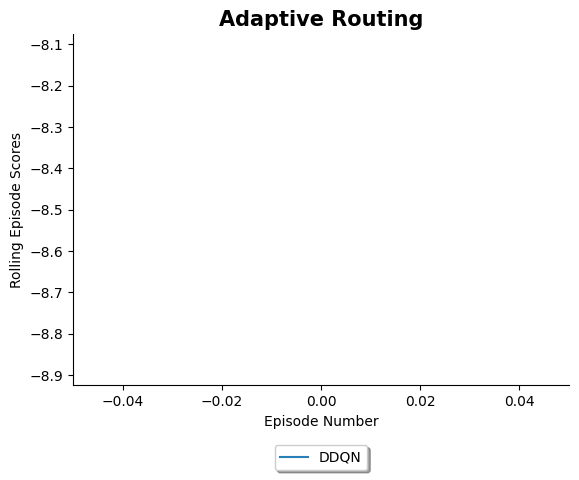
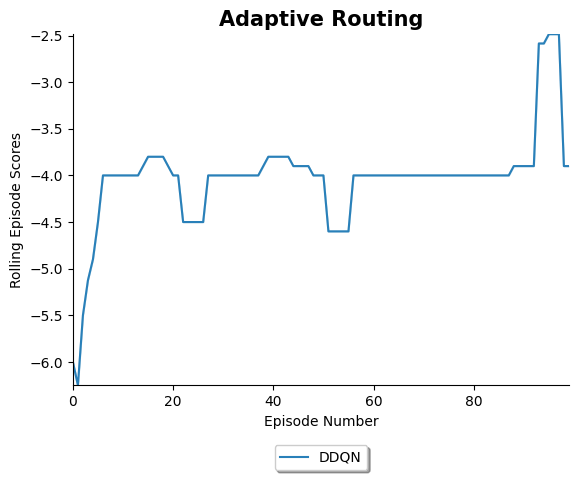
bug fix

diff --git a/environments/Adaptive_Routing_Environment.py b/environments/Adaptive_Routing_Environment.py
@@ -16,9 +16,7 @@ import torch
 import itertools
 import numpy
 import math
-# eng = cityflow.Engine("3x3/config.json", thread_num=1)
-# for i in range(1000):
-# 	eng.next_step()
+
 class Adaptive_Routing_Environment(gym.Env):
 	environment_name = "Adaptive Routing"
 
@@ -62,7 +60,6 @@ class Adaptive_Routing_Environment(gym.Env):
 		# breakpoint()
 		self.eng.set_save_replay(True)
 		self.eng.set_replay_file("replays/episode"+str(episode)+".txt")
-		self.vehicles={}
 		self.refresh()
 		self.eng.next_step()
 		return []
@@ -70,26 +67,33 @@ class Adaptive_Routing_Environment(gym.Env):
 		# assuming that there is no TVs at the beginning
 	
 	def refresh(self):
+		self.vehicles={}
+		self.refresh_trans()
+		self.refresh_exp()
+
+	def refresh_trans(self):
 		self.trans_vehicles=[]
 		self.trans_vehicles_states=[]
+	
+	def refresh_exp(self):
 		self.states=[]
 		self.acts=[]
 		self.next_states=[]
 		self.rewds=[]
-		self.dones=[]
+		self.dones=[]	
+		
 
 	def step(self,actions):
 		if self.Log:
 			print("Simulation Time: :{:.2f}".format(self.eng.get_current_time()))
-
-		try:
-			assert(len(self.trans_vehicles)==len(actions))
-			self.set_route(actions)
-		except Exception as e:
-			breakpoint()
+		self.refresh_exp()
+		for vc,act in zip(self.trans_vehicles,actions):
+			self.set_route(vc,act)
+			done,reward=self.get_reward(vc)
+			self.save_expirence(vc,reward,done)
 		
 		self.eng.next_step()
-		self.refresh()
+		self.refresh_trans()
 
 		if self.is_terminal():
 			return self.states,self.acts,self.next_states,self.rewds,self.dones,True
@@ -107,34 +111,28 @@ class Adaptive_Routing_Environment(gym.Env):
 	
 		return self.states,self.acts,self.next_states,self.rewds,self.dones,False
 
-	def set_route(self,acts):
-		vehicles=self.trans_vehicles
-		for vc,act in zip(vehicles,acts):
-			current_road=self.vehicles[vc]["road"]
-			next_road=self.get_next_road(vc,act)
-			self.vehicles[vc]["action"]=act
-			self.vehicles[vc]["next_road"]=next_road
+	def set_route(self,vc,act):
+		current_road=self.vehicles[vc]["road"]
+		next_road=self.get_next_road(vc,act)
+		self.vehicles[vc]["action"]=act
+		self.vehicles[vc]["next_road"]=next_road
 
-			# if self.is_rewardable(vc):	
+		road="road_"+str(next_road[0])+"_"+str(next_road[1])+"_"+str(next_road[2])
+		
+		if self.Log:	
+			print("########## setting route for vc="+str(vc)+" act="+str(act)+"#########")
+			print("current_road: "+str(current_road)+","+"new road: "+str(next_road))
+			print(self.eng.get_vehicle_info(vc)["route"])
+		
+		routing_complete=self.eng.set_vehicle_route(vc,[road])
+		
+		if self.Log:
+			print(routing_complete)
+			print(self.eng.get_vehicle_info(vc)["route"])
 
+		
+		self.vehicles[vc]["valid"]=routing_complete and self.utils.check_valid(next_road)
 
-			road="road_"+str(next_road[0])+"_"+str(next_road[1])+"_"+str(next_road[2])
-			
-			if self.Log:	
-				print("########## setting route for vc="+str(vc)+" act="+str(act)+"#########")
-				print("current_road: "+str(current_road)+","+"new road: "+str(next_road))
-				print(self.eng.get_vehicle_info(vc)["route"])
-			
-			routing_complete=self.eng.set_vehicle_route(vc,[road])
-			
-			if self.Log:
-				print(routing_complete)
-				print(self.eng.get_vehicle_info(vc)["route"])
-
-			
-			self.vehicles[vc]["valid_action"]=routing_complete and self.utils.check_valid(next_road)
-			done,reward=self.get_reward(vc)
-			self.save_expirence(vc,reward,done)
 
 	def save_expirence(self,vc,reward,done):
 		if self.Log:
@@ -171,6 +169,7 @@ class Adaptive_Routing_Environment(gym.Env):
 			"road": self.get_road(vc),
 			"destination": self.get_destination(vc),
 			"enter time": self.eng.get_current_time(),
+			"valid":True
 			}
 		else:
 			if self.Log:
@@ -189,11 +188,11 @@ class Adaptive_Routing_Environment(gym.Env):
 		return state
 
 	def get_reward(self,vc):
-		road=self.vehicles[vc]["road"]
+		next_road=self.vehicles[vc]["next_road"]
 		roadD=self.vehicles[vc]["destination"]		
 		
-		if not self.vehicles[vc]["valid_action"]:
-			if road==roadD:
+		if not self.vehicles[vc]["valid"]:
+			if next_road==roadD:
 				TT=self.eng.get_current_time()-self.vehicles[vc]["enter time"]
 				SPTT=self.utils.get_Shoretest_Path_Travel_Time(vc)
 				reward=1+math.exp(SPTT/TT)
@@ -206,9 +205,8 @@ class Adaptive_Routing_Environment(gym.Env):
 			
 			return True,reward
 
-		next_road=self.utils.derivable2road(road+[self.vehicles[vc]["action"]])
-		intersec1=road[0:2]
-		intersec2=next_road[0:2]
+		intersec1=next_road[0:2]
+		intersec2=self.utils.change_position(next_road[0:2],next_road[2])
 		intersecD=roadD[0:2]
 
 		Dist_1_D=self.utils.get_distance(intersec1,intersecD)
@@ -248,7 +246,7 @@ class Adaptive_Routing_Environment(gym.Env):
 		return vc not in self.vehicles
 
 	def is_trans(self,vc):
-		return True if self.is_new(vc) else self.get_road(vc) != self.vehicles[vc]["road"]
+		return self.is_new(vc) or (self.vehicles[vc]["valid"] and self.get_road(vc) != self.vehicles[vc]["road"])
 
 	def get_engine_vehicles_dic(self):
 		

diff --git a/results/Adaptive_Routing.py b/results/Adaptive_Routing.py
@@ -33,13 +33,13 @@ device = torch.device("cuda" if torch.cuda.is_available() else "cpu") #device is
 config = Config()
 config.seed = 1
 
-config.environment = Adaptive_Routing_Environment(dim=3,encode="one_hot",Num_Flows=2,skip_routing=[],Max_Sim_Time=500,device=device,Log=True)
+config.environment = Adaptive_Routing_Environment(dim=3,encode="one_hot",Num_Flows=2,skip_routing=[],Max_Sim_Time=600,device=device,Log=False)
 # breakpoint()
 # num_possible_states =config.environment.utils.get_state_diminsion()
 # embedding_dimensions = [[num_possible_states, 20]]
 # print("Num possible states ", num_possible_states)
 
-config.num_episodes_to_run = 1
+config.num_episodes_to_run = 1000
 config.file_to_save_data_results = "Data_and_Graphs/Adaptive_Routing.pkl"
 config.file_to_save_results_graph = "Data_and_Graphs/Adaptive_Routing.png"
 config.show_solution_score = False
